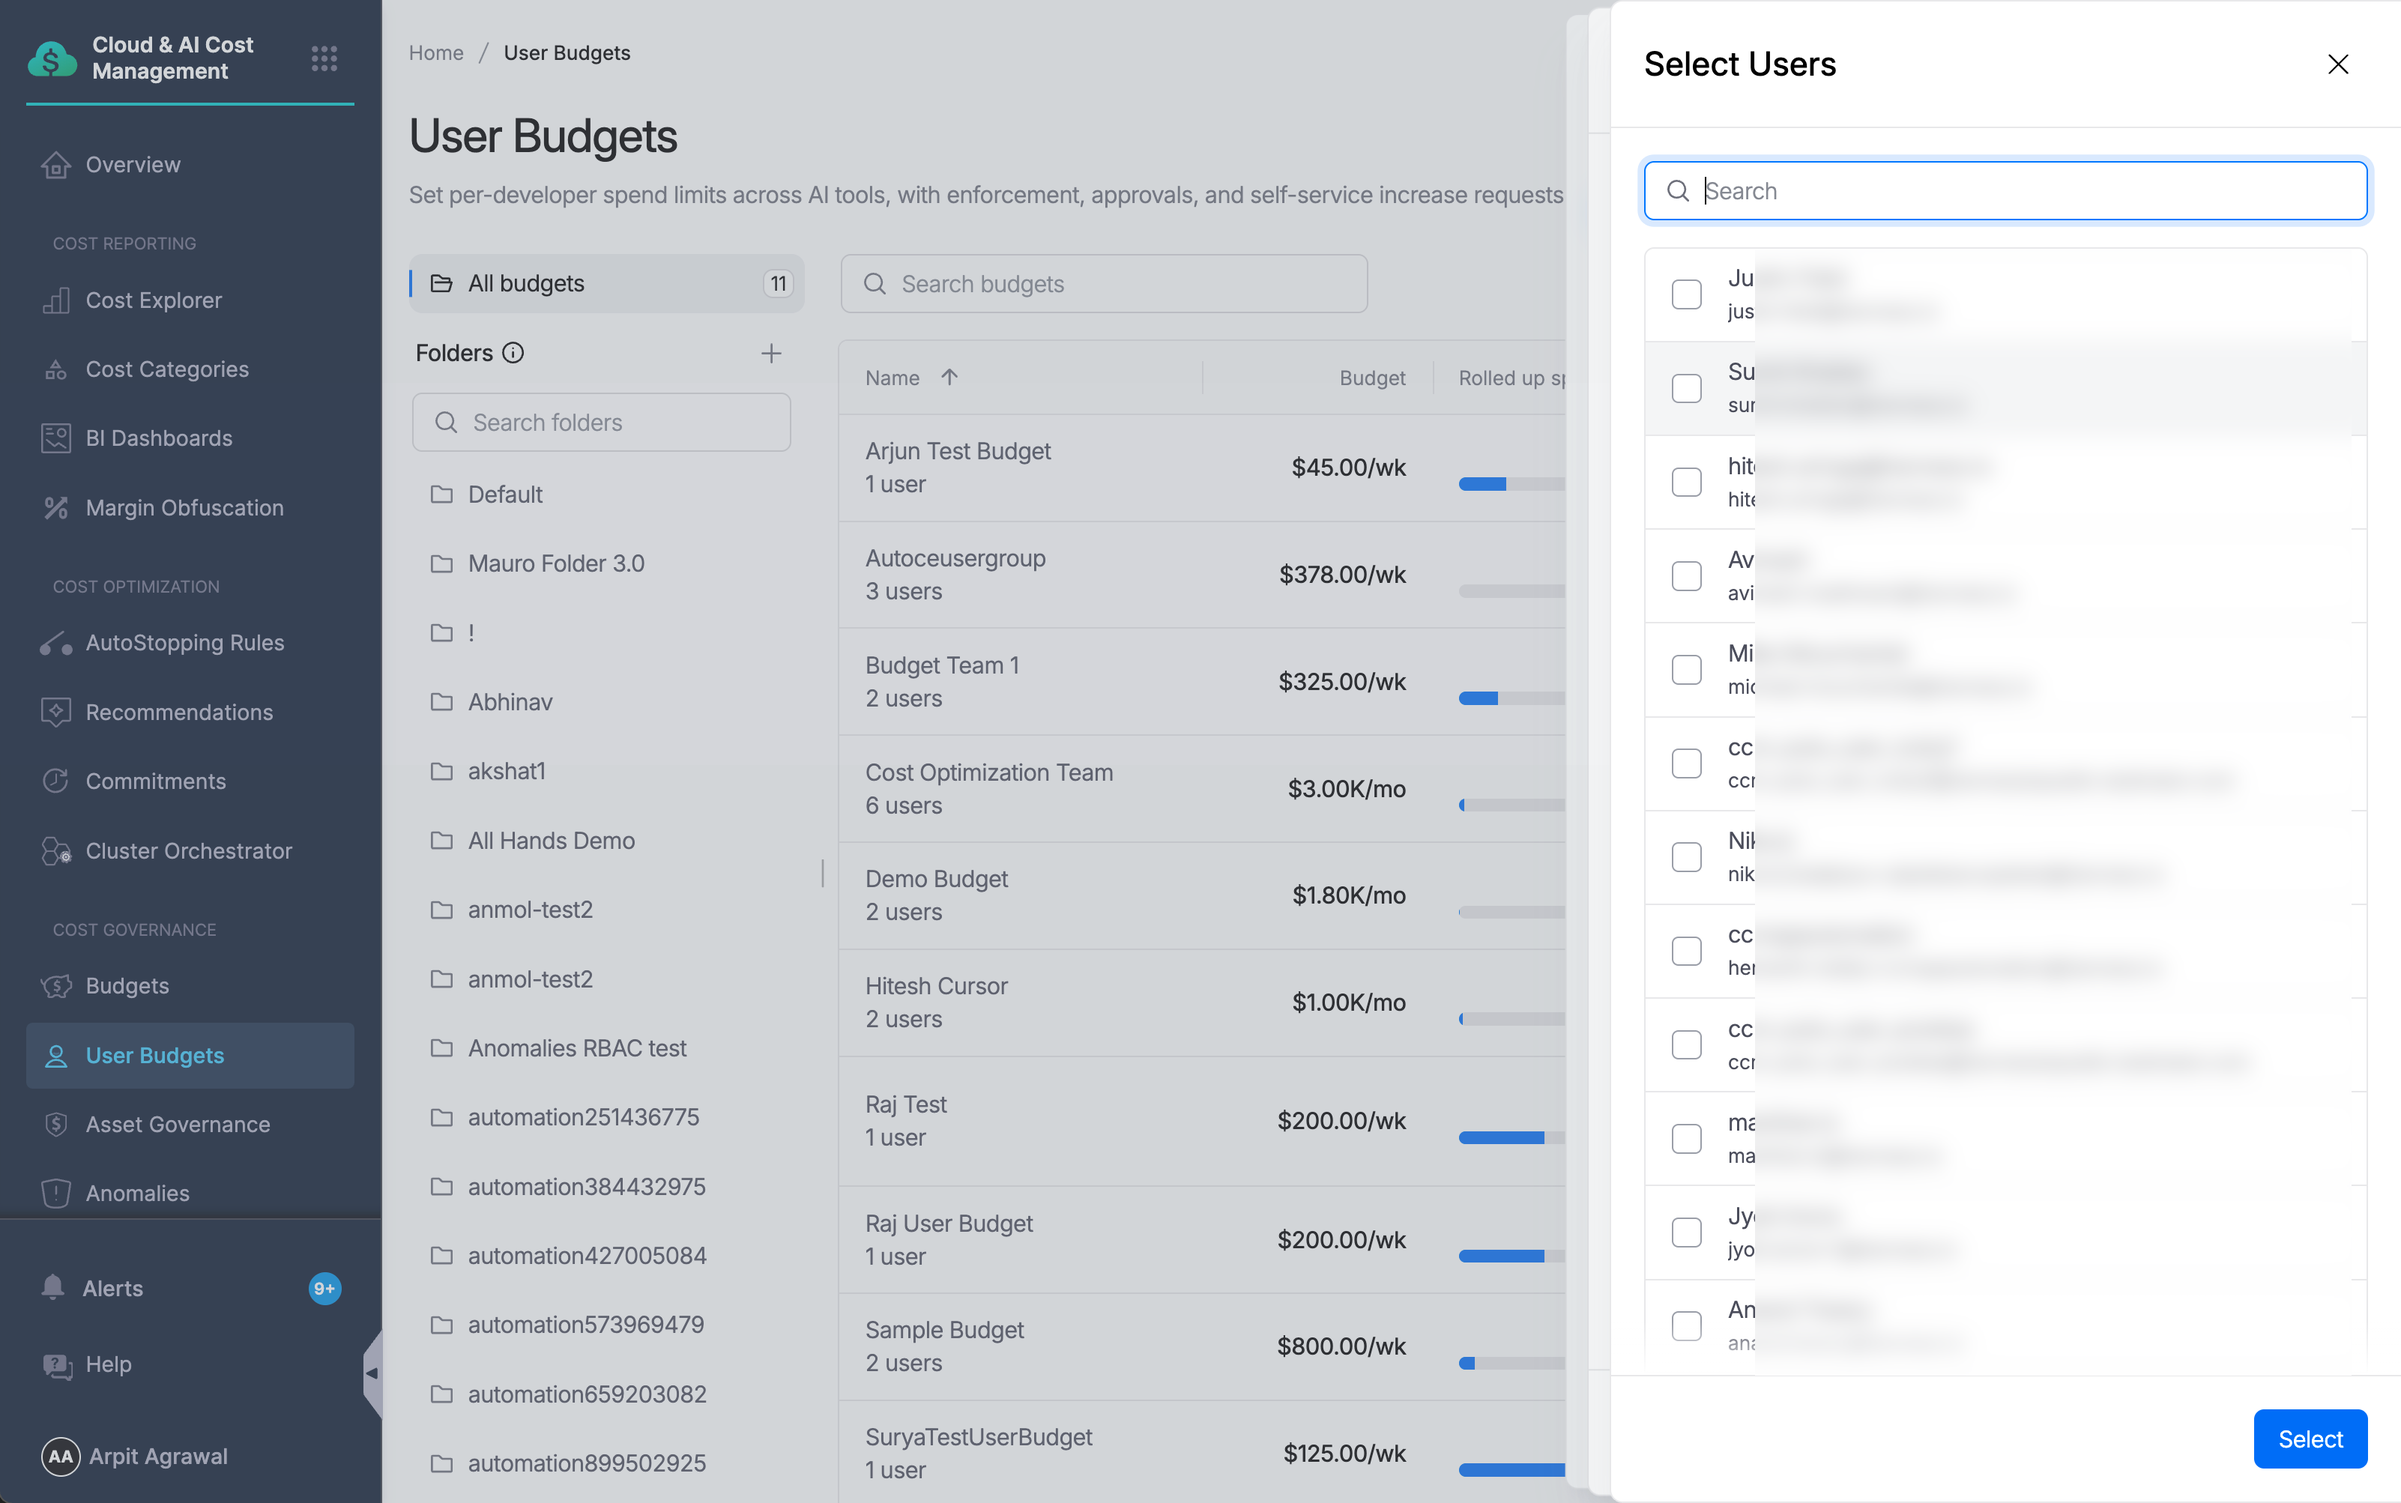
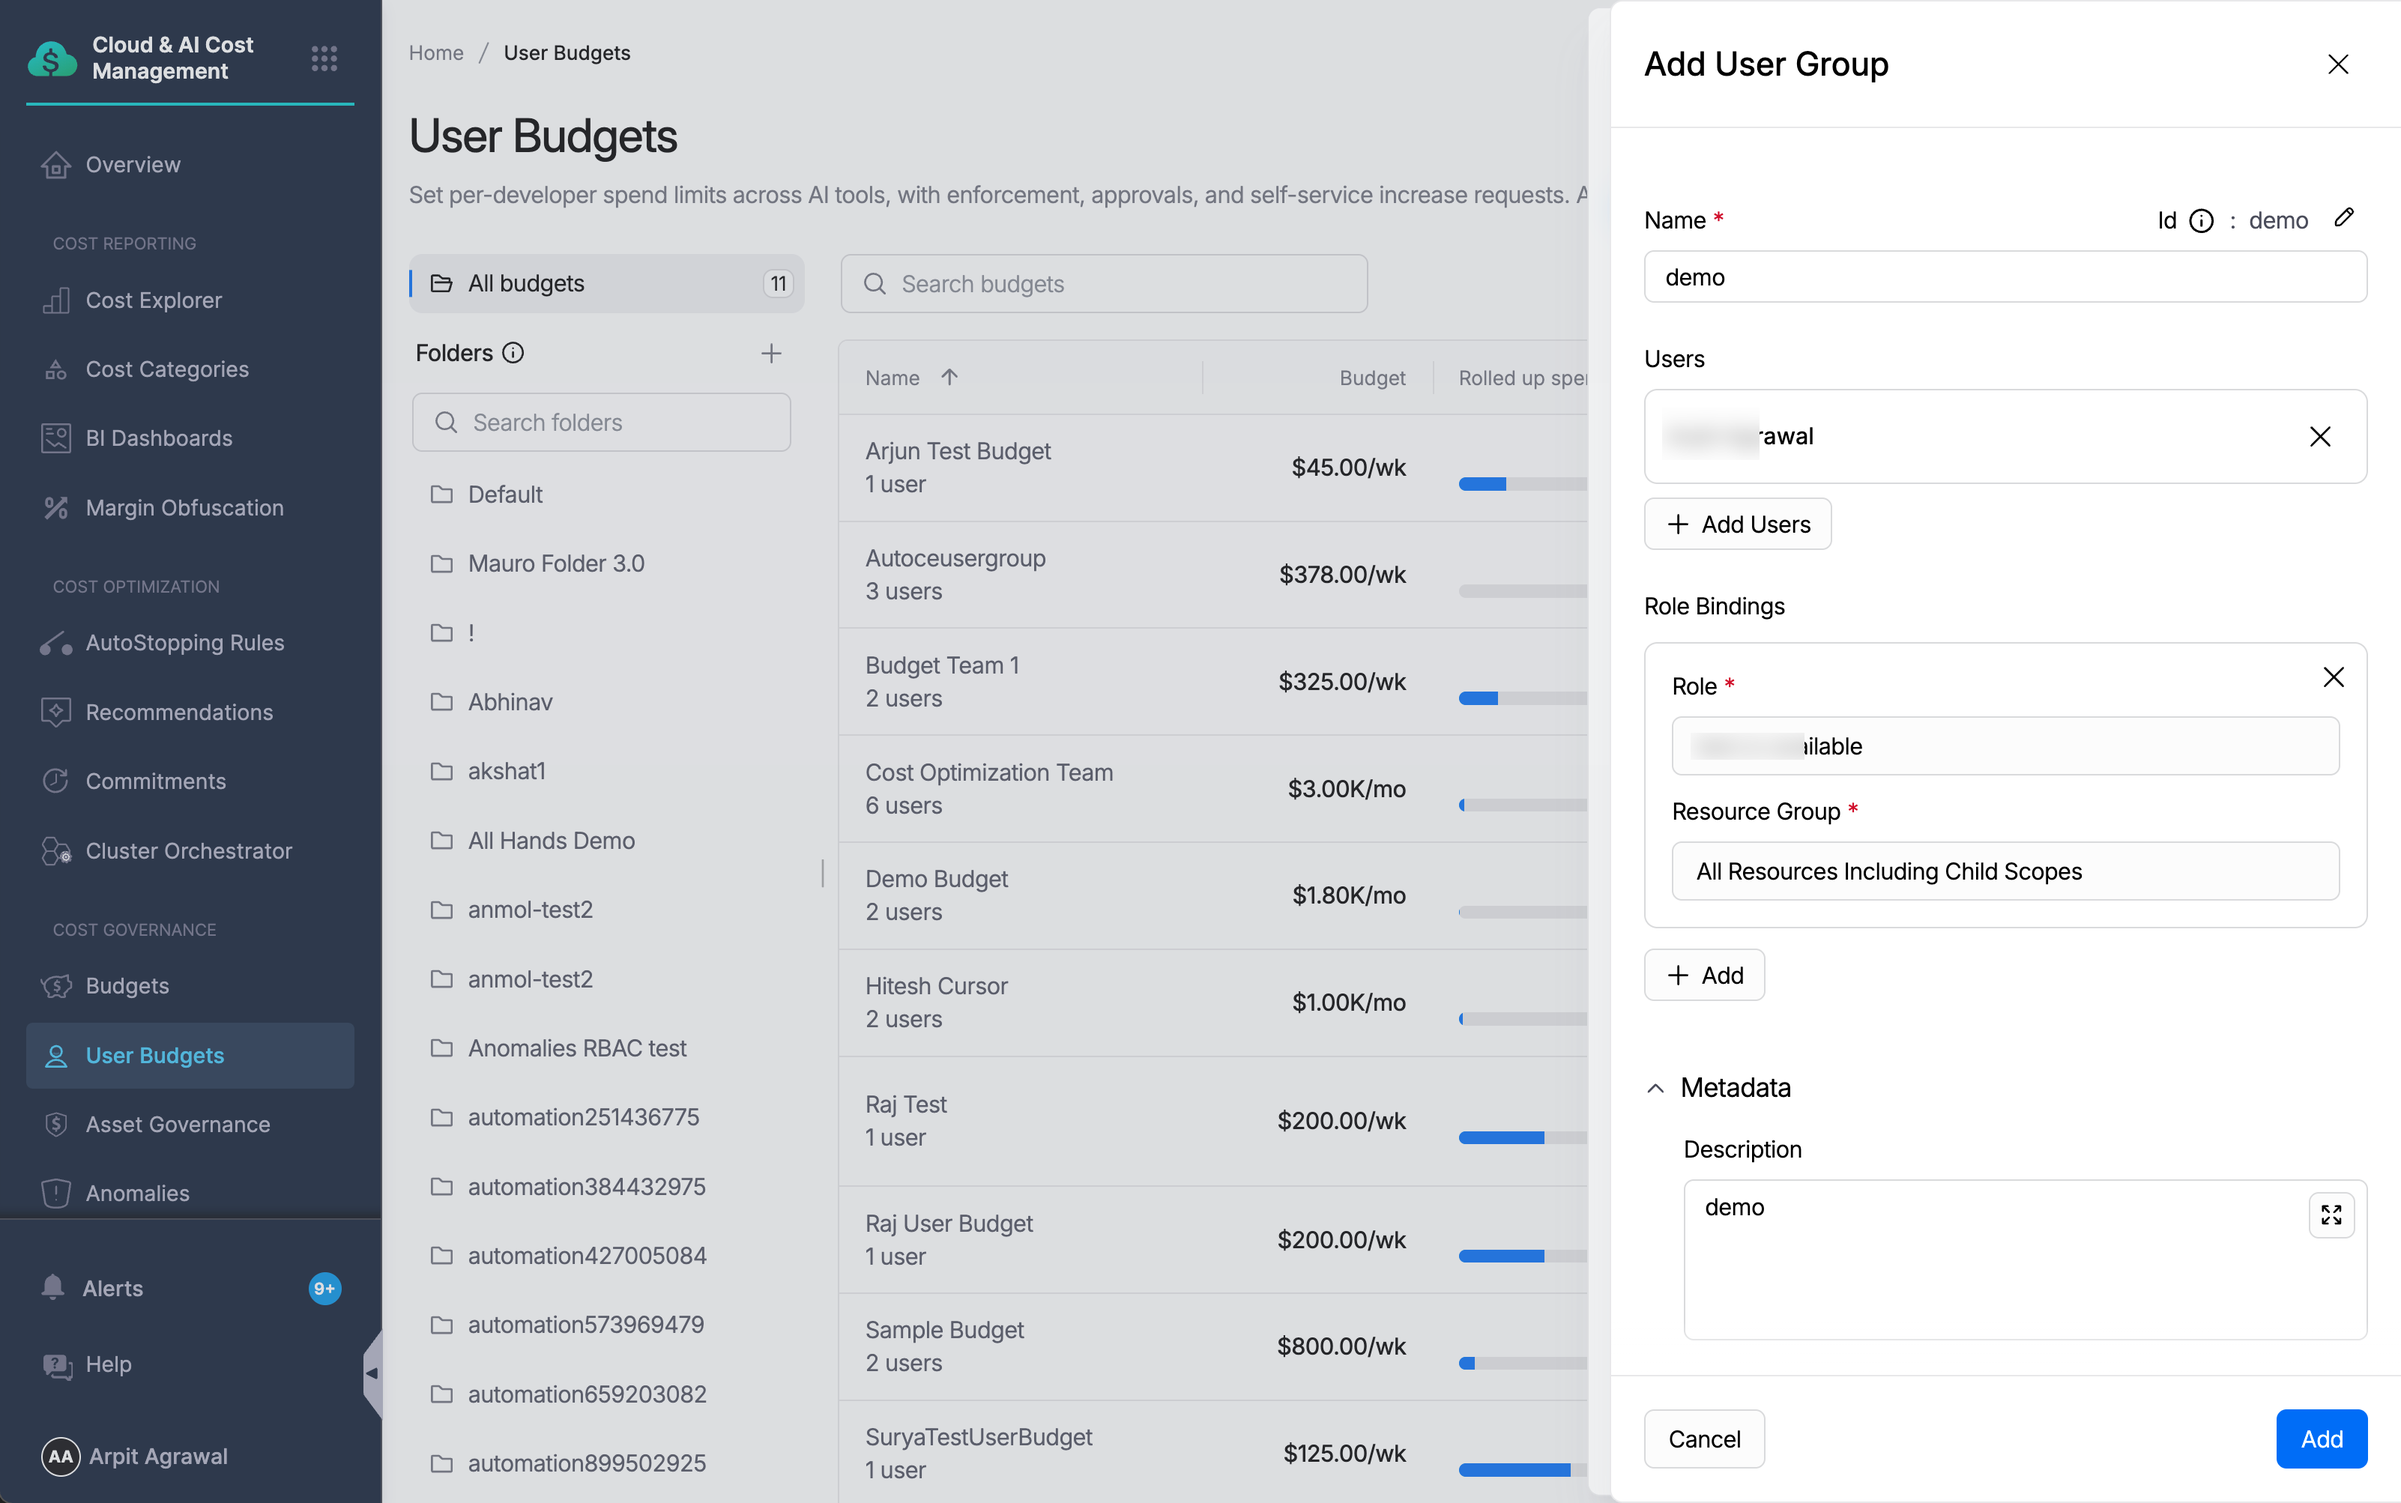
preview: 3 page(s) 07:13:59

diff --git a/manage-user-budgets.md b/manage-user-budgets.md
@@ -227,7 +227,7 @@ You can create a user group directly from the **Select user groups** field in th
 | Role Bindings | Assign a **Role** and **Resource Group** to the group. Click **+ Add** to add more role bindings. |
 | Metadata | Optional description and tags for the group. |
 
-<figure><img src="../../.gitbook/assets/user-budgets-select-users.png" alt="Select Users picker"><figcaption><p>Select Users picker — search and select the members to add to the group</p></figcaption></figure>
+<figure><img src="../../.gitbook/assets/user-budgets-select-users.png" alt="Add User Group panel with users and role bindings filled in"><figcaption><p>Add User Group panel with a user selected, a role binding configured, and a description added</p></figcaption></figure>
 
 Click **Add** to create the group. It appears immediately in the **Select user groups** dropdown.
 
